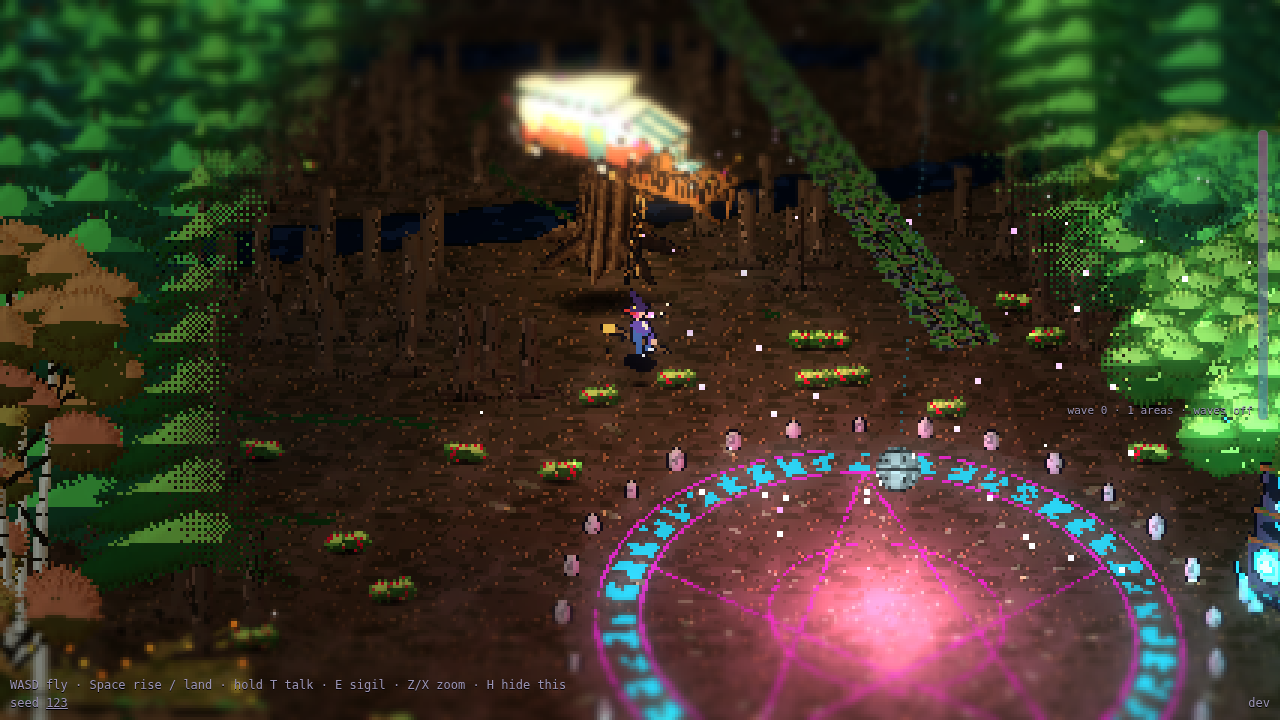
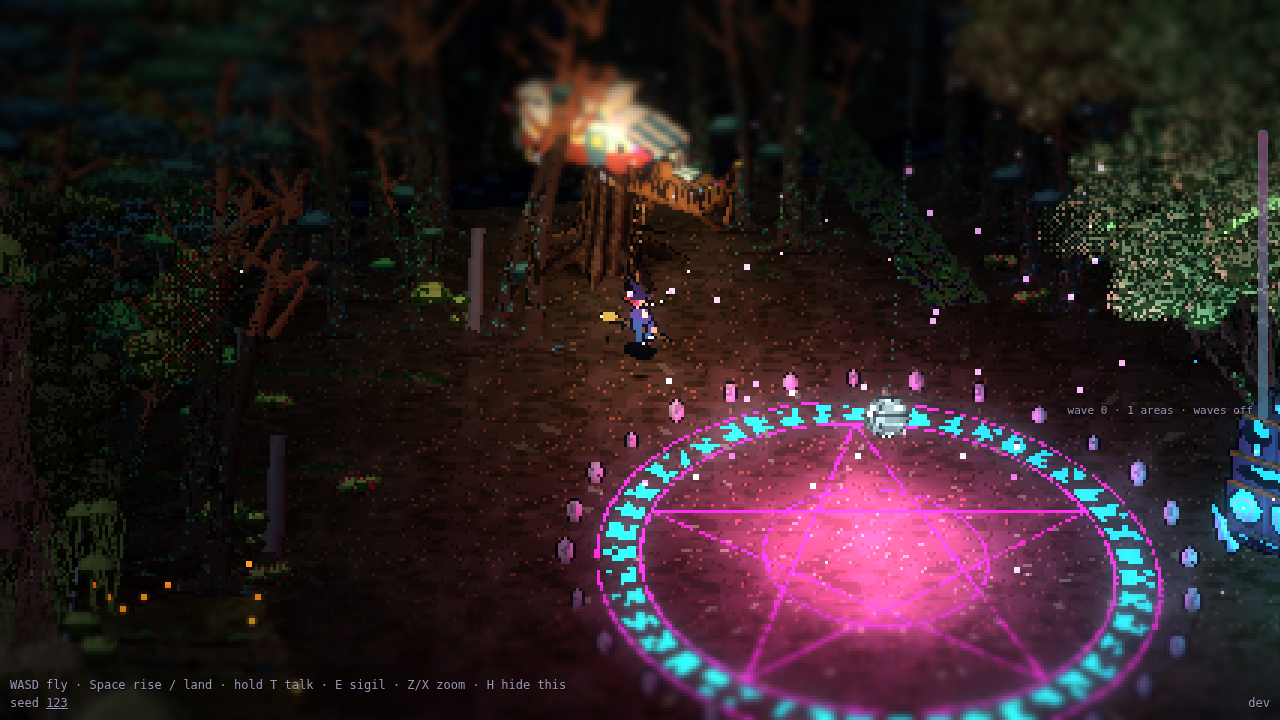
Fewer random pieces (Ed, v147): decor and relics at a third of the rate and 80 m apart, path pieces 40 m apart, stairs only into steep or sunken areas (one per path); the witch's glow falls off as (1 - d/reach)^falloff along the ground, reach 50 m, falloff 2.5, ?glow=<reach>,<falloff> to tune
Claude-Session: https://claude.ai/code/session_01MR6jyHx6mcGYyfzATvhXK3

diff --git a/src/rules/forest.ts b/src/rules/forest.ts
@@ -139,50 +139,71 @@ function wallsInChunk(map: ForestMap, ci: number, cj: number): Plant[] {
 export type DecorFamily = "ruins" | "rocks" | "freak";
 export interface Decor { x: number; z: number; family: DecorFamily; variant: number; flip: boolean }
 
-function decorInChunk(map: ForestMap, ci: number, cj: number): Decor[] {
-  const D = map.tuning.decor, sp = D.spacing, s = map.seed, out: Decor[] = [];
-  const j0 = Math.ceil((cj * CHUNK) / sp), j1 = Math.ceil(((cj + 1) * CHUNK) / sp);
-  const i0 = Math.ceil((ci * CHUNK) / sp), i1 = Math.ceil(((ci + 1) * CHUNK) / sp);
+// Where a decoration would go in cell (i, j), before the spacing (null: none there).
+function decorCandidate(map: ForestMap, i: number, j: number): (Decor & { rank: number }) | null {
+  const D = map.tuning.decor, sp = D.spacing, s = map.seed;
+  // The area's layout says how much decor it has (its rate, against a typical 0.3) and of which
+  // families; "rocky" ground has more rocks.
+  const x = (i + (hash2(i, j, s + 501) - 0.5) * 0.8) * sp, z = (j + (hash2(i, j, s + 502) - 0.5) * 0.8) * sp, a = map.areaAt(x, z);
+  const L = AREA_TYPES[a.type].layout, ad = L.decor, rate = ad ? ad.rate / 0.3 : 1, rocky = L.terrain?.includes("rocky") ? 2 : 1;
+  const w = ad ? [ad.ruins, ad.rocks * rocky, ad.freak] : [D.ruins, D.rocks * rocky, D.freak], sum = w[0] + w[1] + w[2] || 1;
+  const total = (D.ruins + D.rocks + D.freak) * rate * (ad ? (ad.ruins + ad.rocks + ad.freak) / Math.max(0.01, ad.ruins + ad.rocks + ad.freak + ad.lake + ad.modern) : 1) * (rocky > 1 ? 1.5 : 1);
+  const roll = hash2(i, j, s + 503);
+  if (roll >= total) return null;
+  if (a.openness < D.clearing || map.hardClear(x, z) || map.paths.at(x, z, D.pathGap)) return null;
+  if (map.reserved(x, z, D.footprint)) return null; // its whole footprint clear of the gameplay and set pieces
+  if (Math.hypot(x - map.dancefloor.x, z - map.dancefloor.z) < map.dancefloor.radius + map.tuning.dancefloor.clearing + 6) return null;
+  // Open ground keeps them all; dense canopy only some.
+  const open = 1 - Math.min(1, treeChance(map, x, z, a.type) / 0.8);
+  if (hash2(i, j, s + 504) > 0.35 + 0.65 * open) return null;
+  const f = (roll / total) * sum, family: DecorFamily = f < w[0] ? "ruins" : f < w[0] + w[1] ? "rocks" : "freak";
+  return { x, z, family, variant: Math.floor(hash2(i, j, s + 505) * 1e6), flip: hash2(i, j, s + 506) < 0.5, rank: hash2(i, j, s + 507) };
+}
+
+/** Keep the candidates no stronger one lies within `gap` metres of (Ed, v147: "too numerous"):
+ *  seeded and the same whichever chunk asks, so it never pops. */
+function spaced<T extends { x: number; z: number; rank: number }>(cand: (i: number, j: number) => T | null, sp: number, gap: number, i0: number, i1: number, j0: number, j1: number): T[] {
+  const out: T[] = [], k = Math.ceil(gap / sp) + 1;
   for (let j = j0; j < j1; j++) for (let i = i0; i < i1; i++) {
-    // The area's layout says how much decor it has (its rate, against a typical 0.3) and of which
-    // families; "rocky" ground has more rocks.
-    const x = (i + (hash2(i, j, s + 501) - 0.5) * 0.8) * sp, z = (j + (hash2(i, j, s + 502) - 0.5) * 0.8) * sp, a = map.areaAt(x, z);
-    const L = AREA_TYPES[a.type].layout, ad = L.decor, rate = ad ? ad.rate / 0.3 : 1, rocky = L.terrain?.includes("rocky") ? 2 : 1;
-    const w = ad ? [ad.ruins, ad.rocks * rocky, ad.freak] : [D.ruins, D.rocks * rocky, D.freak], sum = w[0] + w[1] + w[2] || 1;
-    const total = (D.ruins + D.rocks + D.freak) * rate * (ad ? (ad.ruins + ad.rocks + ad.freak) / Math.max(0.01, ad.ruins + ad.rocks + ad.freak + ad.lake + ad.modern) : 1) * (rocky > 1 ? 1.5 : 1);
-    const roll = hash2(i, j, s + 503);
-    if (roll >= total) continue;
-    if (a.openness < D.clearing || map.hardClear(x, z) || map.paths.at(x, z, D.pathGap)) continue;
-    if (map.reserved(x, z, D.footprint)) continue; // its whole footprint clear of the gameplay and set pieces
-    if (Math.hypot(x - map.dancefloor.x, z - map.dancefloor.z) < map.dancefloor.radius + map.tuning.dancefloor.clearing + 6) continue;
-    // Open ground keeps them all; dense canopy only some.
-    const open = 1 - Math.min(1, treeChance(map, x, z, a.type) / 0.8);
-    if (hash2(i, j, s + 504) > 0.35 + 0.65 * open) continue;
-    const f = (roll / total) * sum, family: DecorFamily = f < w[0] ? "ruins" : f < w[0] + w[1] ? "rocks" : "freak";
-    out.push({ x, z, family, variant: Math.floor(hash2(i, j, s + 505) * 1e6), flip: hash2(i, j, s + 506) < 0.5 });
+    const c = cand(i, j);
+    if (!c) continue;
+    let keep = true;
+    for (let dj = -k; dj <= k && keep; dj++) for (let di = -k; di <= k; di++) {
+      if (!di && !dj) continue;
+      const o = cand(i + di, j + dj);
+      if (o && o.rank > c.rank && Math.hypot(o.x - c.x, o.z - c.z) < gap) { keep = false; break; }
+    }
+    if (keep) out.push(c);
   }
   return out;
+}
+
+function decorInChunk(map: ForestMap, ci: number, cj: number): Decor[] {
+  const D = map.tuning.decor, sp = D.spacing;
+  return spaced((i, j) => decorCandidate(map, i, j), sp, D.minGap, Math.ceil((ci * CHUNK) / sp), Math.ceil(((ci + 1) * CHUNK) / sp), Math.ceil((cj * CHUNK) / sp), Math.ceil(((cj + 1) * CHUNK) / sp))
+    .map(({ rank: _rank, ...d }) => d);
 }
 
 // Modern relics (Ed: the occasional half-buried car, shopping trolley, traffic cone, broken bit of
 // highway): rare, more of them by the roads and railways; the view picks which by variant.
 export interface Relic { x: number; z: number; variant: number; flip: boolean }
 
+function relicCandidate(map: ForestMap, i: number, j: number): (Relic & { rank: number }) | null {
+  const R = map.tuning.relics, sp = R.spacing, s = map.seed;
+  const x = (i + (hash2(i, j, s + 881) - 0.5) * 0.8) * sp, z = (j + (hash2(i, j, s + 882) - 0.5) * 0.8) * sp, a = map.areaAt(x, z);
+  const ad = AREA_TYPES[a.type].layout.decor, share = ad ? ad.modern / Math.max(0.01, ad.ruins + ad.rocks + ad.freak + ad.lake + ad.modern) : 0.1;
+  const near = map.paths.at(x, z, 20), byRoad = near && (near.kind === "road" || near.kind === "rail") ? R.nearRoad : 1;
+  if (hash2(i, j, s + 883) >= R.chance * (0.5 + 5 * share) * byRoad) return null;
+  if (a.openness < map.tuning.decor.clearing || map.hardClear(x, z) || map.paths.at(x, z, 2) || map.paths.pieceAt(x, z)) return null;
+  if (map.reserved(x, z, map.tuning.decor.footprint)) return null; // its footprint clear of the gameplay, set pieces and grounds
+  if (Math.hypot(x - map.dancefloor.x, z - map.dancefloor.z) < map.dancefloor.radius + map.tuning.dancefloor.clearing + 6) return null;
+  return { x, z, variant: Math.floor(hash2(i, j, s + 884) * 1e6), flip: hash2(i, j, s + 885) < 0.5, rank: hash2(i, j, s + 886) };
+}
+
 function relicsInChunk(map: ForestMap, ci: number, cj: number): Relic[] {
-  const R = map.tuning.relics, sp = R.spacing, s = map.seed, out: Relic[] = [];
-  const j0 = Math.ceil((cj * CHUNK) / sp), j1 = Math.ceil(((cj + 1) * CHUNK) / sp);
-  const i0 = Math.ceil((ci * CHUNK) / sp), i1 = Math.ceil(((ci + 1) * CHUNK) / sp);
-  for (let j = j0; j < j1; j++) for (let i = i0; i < i1; i++) {
-    const x = (i + (hash2(i, j, s + 881) - 0.5) * 0.8) * sp, z = (j + (hash2(i, j, s + 882) - 0.5) * 0.8) * sp, a = map.areaAt(x, z);
-    const ad = AREA_TYPES[a.type].layout.decor, share = ad ? ad.modern / Math.max(0.01, ad.ruins + ad.rocks + ad.freak + ad.lake + ad.modern) : 0.1;
-    const near = map.paths.at(x, z, 20), byRoad = near && (near.kind === "road" || near.kind === "rail") ? R.nearRoad : 1;
-    if (hash2(i, j, s + 883) >= R.chance * (0.5 + 5 * share) * byRoad) continue;
-    if (a.openness < map.tuning.decor.clearing || map.hardClear(x, z) || map.paths.at(x, z, 2) || map.paths.pieceAt(x, z)) continue;
-    if (map.reserved(x, z, map.tuning.decor.footprint)) continue; // its footprint clear of the gameplay, set pieces and grounds
-    if (Math.hypot(x - map.dancefloor.x, z - map.dancefloor.z) < map.dancefloor.radius + map.tuning.dancefloor.clearing + 6) continue;
-    out.push({ x, z, variant: Math.floor(hash2(i, j, s + 884) * 1e6), flip: hash2(i, j, s + 885) < 0.5 });
-  }
-  return out;
+  const R = map.tuning.relics, sp = R.spacing;
+  return spaced((i, j) => relicCandidate(map, i, j), sp, R.minGap, Math.ceil((ci * CHUNK) / sp), Math.ceil(((ci + 1) * CHUNK) / sp), Math.ceil((cj * CHUNK) / sp), Math.ceil(((cj + 1) * CHUNK) / sp))
+    .map(({ rank: _rank, ...r }) => r);
 }
 
 // Light sources, placed by seed: campfires and magic stones mostly in clearings and at area

diff --git a/src/rules/rules.test.ts b/src/rules/rules.test.ts
@@ -887,7 +887,7 @@ describe("paths, roads and railways", () => {
     for (let seed = 1; seed <= 6; seed++) bridges += generateMap(seed, TUNING).paths.pieces.filter(p => p.id.includes("bridge")).length;
     expect(bridges).toBeGreaterThan(0);
     for (const b of P.pieces.filter(p => p.id.includes("bridge"))) expect(P.at(b.x, b.z)?.kind).toBeDefined();
-    for (const a of P.pieces) for (const b of P.pieces) if (a !== b) expect(Math.hypot(a.x - b.x, a.z - b.z)).toBeGreaterThanOrEqual(12); // never a row of them
+    for (const a of P.pieces) for (const b of P.pieces) if (a !== b) expect(Math.hypot(a.x - b.x, a.z - b.z)).toBeGreaterThanOrEqual(TUNING.paths.pieceGap); // never a row of them
     for (const p of P.pieces) expect(map.reserved(p.x, p.z, p.r)).toBe(false); // clear of soundsystems, set pieces, grounds
     const forest = new Forest(map);
     for (const p of P.pieces.slice(0, 60)) for (const t of forest.treesNear(p.x, p.z, p.r + 1)) expect(Math.hypot(t.x - p.x, t.z - p.z)).toBeGreaterThanOrEqual(p.r - 1e-6);
@@ -906,14 +906,19 @@ describe("decorations", () => {
     const forest = new Forest(map), s = map.start, list = forest.decorNear(s.x, s.z, 700), D = TUNING.decor;
     const fam = new Set(list.map(d => d.family));
     expect(fam.has("ruins") && fam.has("rocks")).toBe(true);
-    expect(list.length).toBeGreaterThan(20);
-    expect(list.length).toBeLessThan((1400 / D.spacing) ** 2 * 0.15);
+    expect(list.length).toBeGreaterThan(5);
+    expect(list.length).toBeLessThan((1400 / D.spacing) ** 2 * 0.03); // sparse: discoveries, not clutter
     for (const d of list) {
       expect(map.paths.at(d.x, d.z)).toBeNull();
       expect(map.areaAt(d.x, d.z).openness).toBeGreaterThanOrEqual(D.clearing);
       expect(Math.hypot(d.x - map.dancefloor.x, d.z - map.dancefloor.z)).toBeGreaterThan(map.dancefloor.radius + TUNING.dancefloor.clearing);
     }
     expect(new Forest(map).decorNear(s.x, s.z, 700)).toEqual(list);
+    for (const a of list) for (const b of list) if (a !== b) expect(Math.hypot(a.x - b.x, a.z - b.z)).toBeGreaterThanOrEqual(D.minGap); // never a cluster (Ed, v147)
+    // The same from another chunk's point of view: spacing doesn't depend on who asks.
+    const other = new Forest(map).decorNear(s.x + 300, s.z, 700).filter(d => Math.abs(d.x - s.x) <= 700 && Math.abs(d.z - s.z) <= 700);
+    expect(other.length).toBeGreaterThan(0);
+    for (const d of other) expect(list.some(e => e.x === d.x && e.z === d.z)).toBe(true);
   });
 });
 
@@ -933,7 +938,15 @@ describe("relics and grounds", () => {
     expect(list.length).toBeGreaterThan(3);
     expect(list.length).toBeLessThan((1800 / TUNING.relics.spacing) ** 2 * 0.1);
     for (const r of list) { expect(map.paths.at(r.x, r.z)).toBeNull(); expect(map.hardClear(r.x, r.z)).toBe(false); }
+    for (const a of list) for (const b of list) if (a !== b) expect(Math.hypot(a.x - b.x, a.z - b.z)).toBeGreaterThanOrEqual(TUNING.relics.minGap);
     const byRoad = list.filter(r => { const h = map.paths.at(r.x, r.z, 20); return h && (h.kind === "road" || h.kind === "rail"); }).length;
     expect(byRoad).toBeGreaterThan(0);
+  });
+});
+
+describe("set pieces, again", () => {
+  it("stand at most one per area", () => {
+    const f = new Forest(map), s = map.start, seen = new Set<string>();
+    for (const p of f.setPiecesNear(s.x, s.z, 900)) { const k = map.areaAt(p.x, p.z + 4).cell.join(","); expect(seen.has(k)).toBe(false); seen.add(k); }
   });
 });

diff --git a/src/render/lighting.ts b/src/render/lighting.ts
@@ -20,6 +20,7 @@ export const LIGHT_UNIFORMS = {
   uGlowPos: { value: new THREE.Vector3() },
   uGlowRgb: { value: new THREE.Vector3() },
   uGlowR: { value: 8 },
+  uGlowFalloff: { value: 2.5 },
   uGlowPower: { value: 1.4 },
   // The twilight haze: the forest fades into it from near to far metres from the witch.
   uHazeCentre: { value: new THREE.Vector2() },
@@ -46,7 +47,7 @@ export type LightUniforms = typeof LIGHT_UNIFORMS;
 
 /** Set the light colours from a style (the Art Lab's knobs). One set of uniforms is shared by
  *  every material, so this and the glow position update everything at once. */
-export function applyStyleLight(st: Style, glowReach: number, metresPerArtPixel: number, ambientScale = 1): void {
+export function applyStyleLight(st: Style, glowReach: number, metresPerArtPixel: number, ambientScale = 1, glowFalloff = 2.5): void {
   const v = (rgb: number[], k: number) => new THREE.Vector3(rgb[0] / 255 * k, rgb[1] / 255 * k, rgb[2] / 255 * k);
   LIGHT_UNIFORMS.uAmb.value.copy(v(hsv2rgb(st.ambientHue, 0.55, 1), st.ambient * ambientScale));
   LIGHT_UNIFORMS.uMoon.value.copy(v(hsv2rgb(st.moonHue, 0.35, 1), st.moon));
@@ -57,13 +58,14 @@ export function applyStyleLight(st: Style, glowReach: number, metresPerArtPixel:
   LIGHT_UNIFORMS.uShaftScale.value = metresPerArtPixel * 2;
   LIGHT_UNIFORMS.uGlowRgb.value.copy(v(hsv2rgb(st.glowHue, st.glowSat, 1), 1));
   LIGHT_UNIFORMS.uGlowR.value = glowReach;
+  LIGHT_UNIFORMS.uGlowFalloff.value = glowFalloff;
   LIGHT_UNIFORMS.uGlowPower.value = st.glowPower;
   LIGHT_UNIFORMS.uHazeColour.value.copy(v(hsv2rgb(st.ambientHue - 0.08, 0.55, 1), 0.16 * Math.sqrt(ambientScale)));
 }
 
 export const LIGHT_GLSL = /* glsl */ `
 uniform vec3 uAmb, uMoon, uMoonDir, uMoonBeam, uGlowPos, uGlowRgb;
-uniform float uBands, uDither, uShafts, uShaftScale, uGlowR, uGlowPower, uTime, uSmooth;
+uniform float uBands, uDither, uShafts, uShaftScale, uGlowR, uGlowFalloff, uGlowPower, uTime, uSmooth;
 uniform vec2 uHazeCentre, uHazeRange;
 uniform vec3 uHazeColour;
 uniform vec4 uLightPos[${MAX_LIGHTS}], uLightCol[${MAX_LIGHTS}];
@@ -108,13 +110,14 @@ vec3 nightLightShaded(vec3 N, vec3 P, float moonK) {
       if (s < 34.0 && (chk > 0.5 || (s > 4.0 && s < 30.0))) l += uMoonBeam;
     }
   }
-  // The witch's glow: a broad, soft pool, fairly flat for the first part of its reach, easing to
-  // nothing at the edge (no ring), from a source well above her so there's no hot spot under her.
+  // The witch's glow (Ed, v147: "should fall off faster"): full under her, falling off with the
+  // distance along the ground as (1 - d/reach)^falloff (about half at 12 m, a faint tail, nothing
+  // at the reach); lit from a source above her, so there's no hot spot under her.
   vec3 v = uGlowPos - P;
-  float d = length(v);
-  if (d < uGlowR) {
-    float ndl = max(0.0, dot(N, v / max(d, 1e-4))) * 0.35 + 0.65;
-    float fall = 1.0 - smoothstep(0.0, uGlowR, d);
+  float dg = length(v.xz);
+  if (dg < uGlowR) {
+    float ndl = max(0.0, dot(N, normalize(v + vec3(0.0, 1e-4, 0.0)))) * 0.35 + 0.65;
+    float fall = pow(1.0 - dg / uGlowR, uGlowFalloff);
     l += uGlowRgb * min(1.0, ndl * fall * uGlowPower);
   }
   for (int i = 0; i < ${MAX_LIGHTS}; i++) {

diff --git a/src/rules/tuning.ts b/src/rules/tuning.ts
@@ -56,6 +56,7 @@ export interface Tuning {
   camera: { fov: number; ground: CameraModeTuning; treetop: CameraModeTuning; zoomSteps: number; startZoom: number; follow: number; lookAhead: number; lookAheadMax: number; lookAheadEase: number; zoomEase: number; liftEase: number };
   pixelSize: number;
   glowReach: number;
+  glowFalloff: number;
   glowHeight: number;
   spriteTilt: number;
   artPixelsPerMetre: number;
@@ -85,13 +86,13 @@ export interface Tuning {
   fx: "smooth" | "pixel";
   moonbeams: number;
   grounds: { chance: number; kinds: string[]; radius: Record<string, number> };
-  relics: { spacing: number; chance: number; nearRoad: number };
+  relics: { spacing: number; chance: number; nearRoad: number; minGap: number };
   treeCap: { from: number; keep: number };
   treetop: { boost: number; boostTime: number; boostAngle: number; turnRate: number; glideTime: number; sharpTurnBleed: number; cameraPull: number };
   bubbles: { emojiPixels: number; scale: number };
   treehouse: { distance: number; angle: number; clear: number; lightReach: number; lightStrength: number };
-  decor: { spacing: number; ruins: number; rocks: number; freak: number; clearing: number; pathGap: number; /** A decoration's footprint radius (metres): kept clear of the gameplay (map.reserved). */ footprint: number };
-  paths: { rails: number[]; roads: number[]; linkChance: number; deadEndChance: number; pathHalf: number; roadHalf: number; railHalf: number; railBroken: number; streams: number[]; streamHalf: number; landmarkSpacing: number; landmarkChance: number; vergeSpacing: number; treesOnBroken: number; edgeBushes: number; bushBoost: number };
+  decor: { spacing: number; ruins: number; rocks: number; freak: number; minGap: number; clearing: number; pathGap: number; /** A decoration's footprint radius (metres): kept clear of the gameplay (map.reserved). */ footprint: number };
+  paths: { rails: number[]; roads: number[]; linkChance: number; deadEndChance: number; pathHalf: number; roadHalf: number; railHalf: number; railBroken: number; streams: number[]; streamHalf: number; landmarkSpacing: number; landmarkChance: number; vergeSpacing: number; pieceGap: number; stairsChance: number; treesOnBroken: number; edgeBushes: number; bushBoost: number };
   lights: { campfire: { reach: number; strength: number }; stone: { reach: number; strength: number } };
   glowPower: number;
   beat: { bpm: number };

diff --git a/src/rules/paths.ts b/src/rules/paths.ts
@@ -154,7 +154,7 @@ export class PathNetwork {
   private placePieces(): void {
     const m = this.map, s = m.seed, T = m.tuning.paths, add = (id: string, x: number, z: number, r: number) => {
       // Pieces keep apart (several crossings close together make one bridge, not a row of them).
-      if (m.hardClear(x, z) || m.reserved(x, z, r) || this.pieces.some(q => Math.hypot(q.x - x, q.z - z) < Math.max(12, q.r + r))) return;
+      if (m.hardClear(x, z) || m.reserved(x, z, r) || this.pieces.some(q => Math.hypot(q.x - x, q.z - z) < Math.max(T.pieceGap, q.r + r))) return;
       const p = { id, x, z, r };
       this.pieces.push(p);
       const k = `${Math.floor(x / this.cell)},${Math.floor(z / this.cell)}`;
@@ -189,11 +189,12 @@ export class PathNetwork {
           add("verge-post", ...side(l, i, (hash2(li, i, s + 847) < 0.5 ? 1 : -1) * (l.half - 0.7)), 0.8);
         }
       }
-      // Stairs where a path climbs into a rocky or sunken area (at its clearing end).
-      if (l.kind === "path" && !l.deadEnd) for (const end of [l.pts[0], l.pts[l.pts.length - 1]]) {
-        const L = AREA_TYPES[m.areaAt(end[0], end[1]).type];
-        const steep = ["rocky-slope", "ravine", "cave-mouth"].includes(L.id) || !!L.layout.terrain?.some(t => t === "hollows" || t === "rocky");
-        if (steep && hash2(Math.round(end[0]), Math.round(end[1]), s + 849) < 0.5) add(hash2(Math.round(end[1]), 3, s + 851) < 0.7 ? "stairs" : "stairs-turn", end[0], end[1], 3);
+      // Stairs only where a path goes down into a steep or sunken area (a slope, a ravine, a cave
+      // mouth, hollows), at its clearing end, and at most one flight per path (Ed, v147).
+      if (l.kind === "path" && !l.deadEnd) {
+        const steep = (e: [number, number]) => { const L = AREA_TYPES[m.areaAt(e[0], e[1]).type]; return ["rocky-slope", "ravine", "cave-mouth"].includes(L.id) || !!L.layout.terrain?.includes("hollows"); };
+        const ends = [l.pts[0], l.pts[l.pts.length - 1]].filter(steep), end = ends[Math.floor(hash2(li, 7, s + 849) * ends.length)];
+        if (end && hash2(Math.round(end[0]), Math.round(end[1]), s + 849) < T.stairsChance) add(hash2(Math.round(end[1]), 3, s + 851) < 0.7 ? "stairs" : "stairs-turn", end[0], end[1], 3);
       }
     });
     // Crossings: a bridge where a path or road crosses a stream; a level crossing where a road

diff --git a/src/main.ts b/src/main.ts
@@ -34,6 +34,10 @@ if (tilt === "off") tuning.tiltShift.on = false;
 else if (tilt === "before" || tilt === "after") { tuning.tiltShift.on = true; tuning.tiltShift.where = tilt; }
 if (params.get("bloom") === "off") tuning.bloom.on = false;
 if (params.get("moonbeams") === "on") tuning.moonbeams = 1;
+// ?glow=<reach>,<falloff>: the witch's glow, to tune live (e.g. ?glow=50,2.5).
+const glowParam = params.get("glow")?.split(",").map(Number);
+if (glowParam && glowParam[0] > 0) tuning.glowReach = glowParam[0];
+if (glowParam && glowParam[1] > 0) tuning.glowFalloff = glowParam[1];
 const fx = params.get("fx");
 if (fx === "pixel" || fx === "smooth") tuning.fx = fx;
 

diff --git a/src/render/view.ts b/src/render/view.ts
@@ -109,7 +109,7 @@ export class View {
     this.camera = new THREE.PerspectiveCamera(t.camera.fov, 1, 1, 900);
     this.post = new Post(this.renderer, t);
     this.scene.background = new THREE.Color(0x0b0a16);
-    applyStyleLight({ ...style, shafts: style.shafts * t.moonbeams }, t.glowReach, this.mpp, t.tone.ambient);
+    applyStyleLight({ ...style, shafts: style.shafts * t.moonbeams }, t.glowReach, this.mpp, t.tone.ambient, t.glowFalloff);
     LIGHT_UNIFORMS.uGlowPower.value = t.glowPower;
     this.assets = new AssetLibrary(style, game.seed, t.pixelSize);
     this.ground = new Ground(game.map, game.forest, style, this.mpp);
